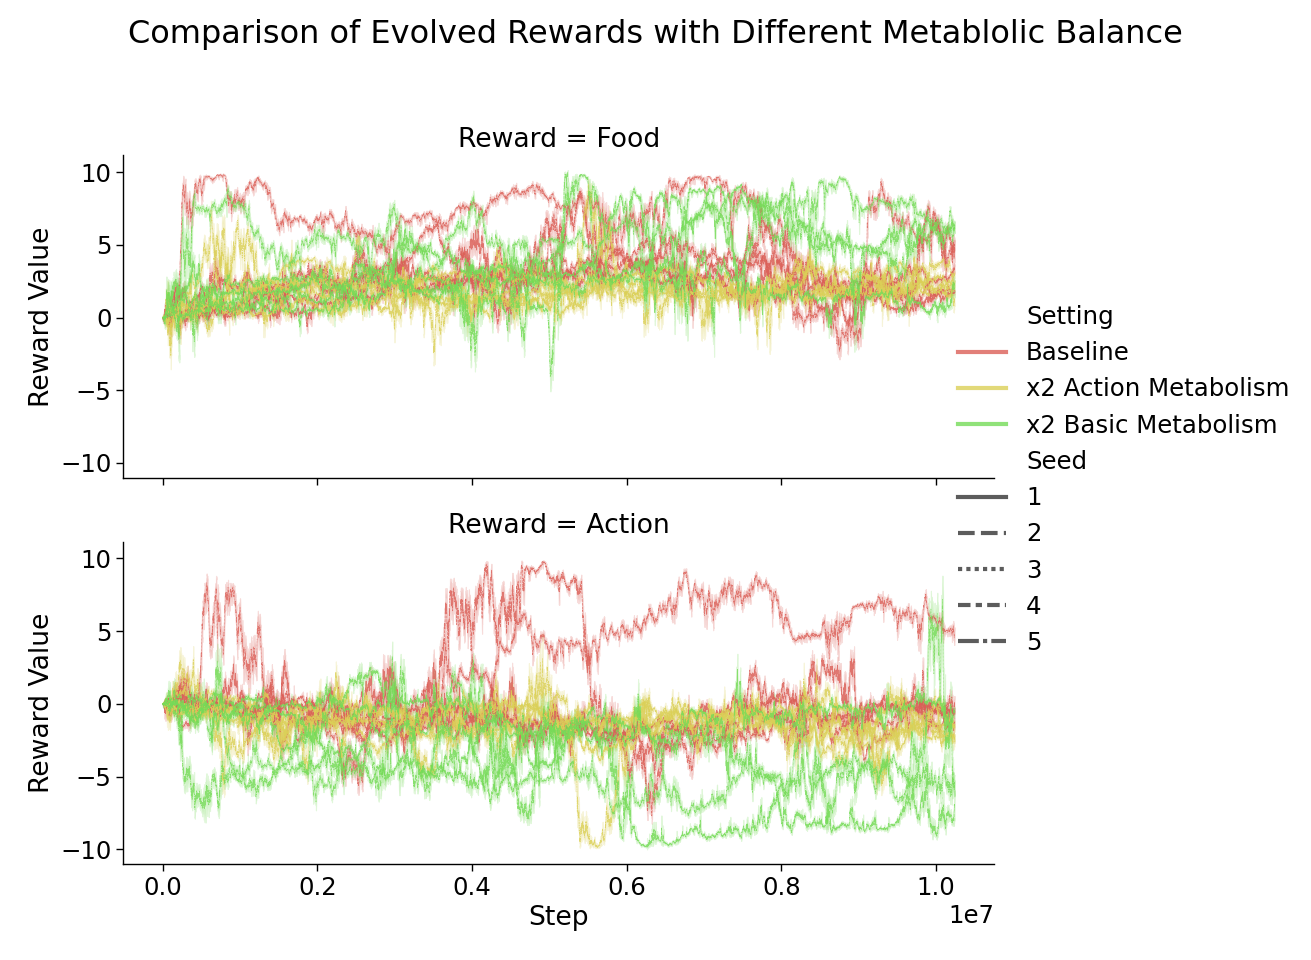
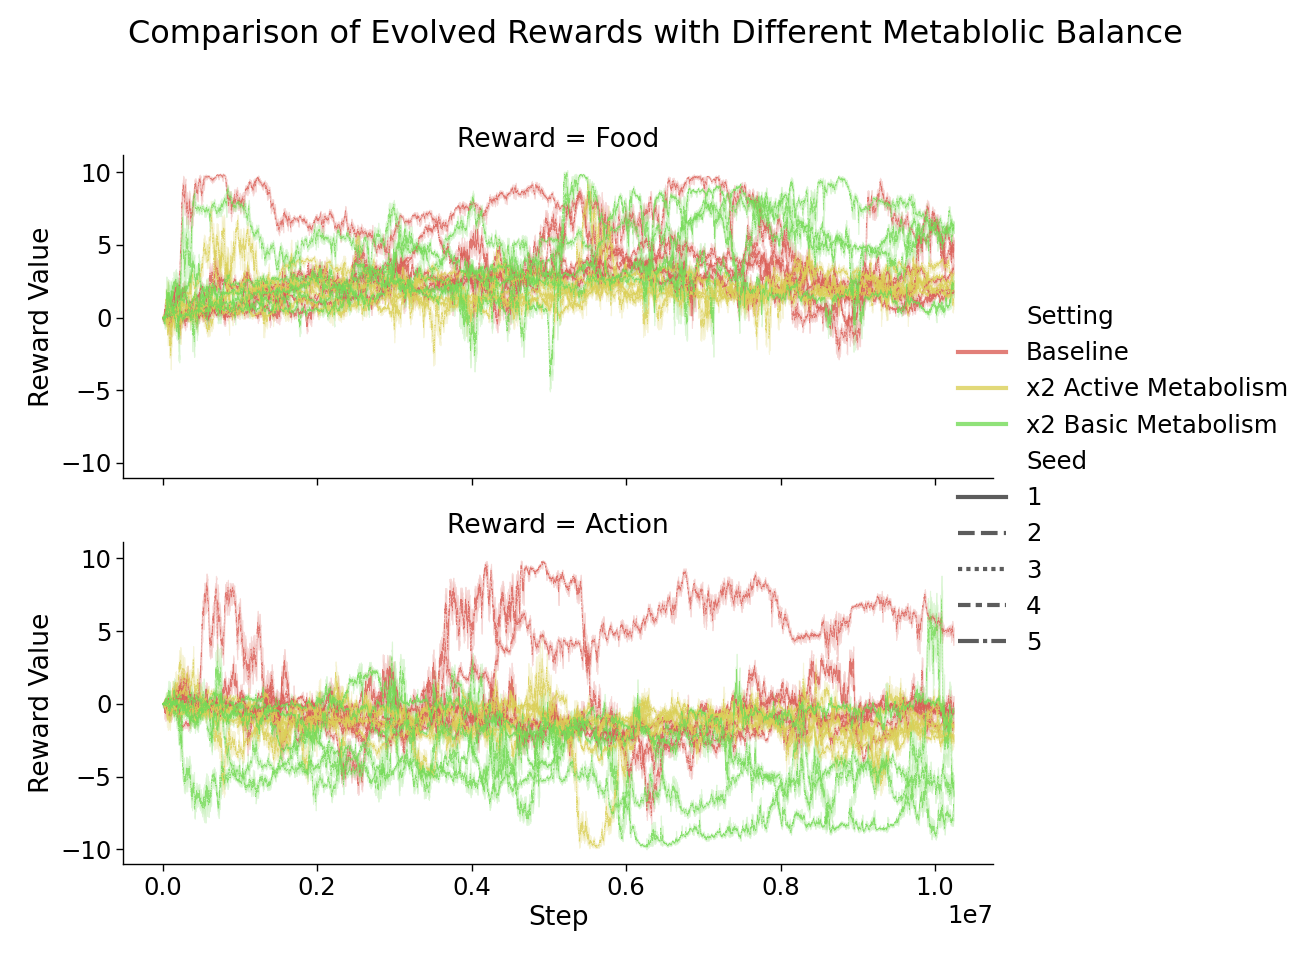
replace metabo

diff --git a/src/body.tex b/src/body.tex
@@ -198,7 +198,7 @@ We use Proximal Policy Optimization \citep{schulmanProximalPolicyOptimization201
 We show the pseudocode of our entire simulation procedure in \cref{alg:reward-evo}. Each agent has its innate, immutable reward function and learnable neural network policy. At each step, it observes sensory inputs from the environment and takes action. Once in $N$ steps, the agent updates its policy via RL using the past $N$ step experiences. After environmental interaction, all agents can make a child and die based on the birth function $b$ and hazard function $h$. The new agent inherits a fraction of the parent's energy and mutated reward function.
 
 \section{Results}
-As a baseline environment, we use the setting where food is always regenerated in the upper right of the room, as the left figure in \cref{figure:env} shows. All experiments start with $50$ agents that have energy level $40.0$. Initial reward weights are sampled from a zero-mean Gaussian distribution with standard deviation $0.1$, so that they should take values close to $0$. We conducted \num{1e7} step of the simulation, resulting in from $300$ to $400$ generations, which takes $14\sim16$ hours on NVIDIA P100 GPU.
+As a baseline environment, we use the setting where food is always regenerated in the upper right of the room, as the left figure in \cref{figure:env} shows. All experiments start with $50$ agents that have energy level $40.0$. Birth and hazard parameters in \cref{table:hb} are tuned so that population is size around $130\sim 150$ through the course of evolution. Initial reward weights are sampled from a zero-mean Gaussian distribution with standard deviation $0.1$, so that they should take values close to $0$. We conducted about one hundread thousound steps ($\num{1024e4}$) of the simulation, resulting in from $300$ to $400$ generations, which takes $14\sim16$ hours on NVIDIA P100 GPU.
 
 \begin{figure}[t]
   \centering
@@ -210,7 +210,7 @@ As a baseline environment, we use the setting where food is always regenerated i
   }\label{figure:result-baseline}
 \end{figure}
 
-\Cref{figure:result-baseline} shows the evolved reward weights with 5 random seeds in the baseline environment. We can observe that food reward is positive in all 5 runs, while action reward tends to be negative in the most of runs. Thus, we can say that agents have acquired rewards contributing to increase their energy level through evolution. The only exception is that action reward is largely positive in one random seed.
+\Cref{figure:result-baseline} shows the evolved reward weights with 5 random seeds in the baseline environment. We can observe that food reward is positive in all 5 runs, while action reward tends to be negative in the most of runs. Thus, we can say that agents have acquired rewards contributing to increase their energy level through evolution. The only exception is that action reward is largely positive in one random seed, which has negative impact on the population size. This run has the least average population size $120.6$ in the last $\num{3e6}$, while it is from $136$ to $149$ in other runs with negative action rewards. This result suggests that such unfavorable reward for population growth can be chosen when there is no competition with other species and there are sufficient energy resources.
 
 \begin{figure}[t]
   \centering
@@ -218,15 +218,15 @@ As a baseline environment, we use the setting where food is always regenerated i
   \caption{Comparison of evolved rewards between different metabolic balance.}\label{figure:result-metabolism}
 \end{figure}
 
+\paragraph{Effect of metabolic balance}
+To investigate the effect of metabolic balance to rewards, we run simulations with two different metabolic balance. One setting has double active metabolism ($e_{\mathrm{act}} = \num{4e-5}$), and the other has double the basic metabolism ($e_{\mathrm{basic}} = 0.002$). \Cref{figure:result-metabolism} compares the results between the baseline, double active metabolism (\texttt{x2 Active Metabolism}), and double basic metabolism (\texttt{x2 Basic Metabolism}). Each line shows the reward weight averaged over all agents alive at that time with one random seed, resulting in five lines per each setting.
+
+
 \begin{figure}[t]
   \centering
   \includegraphics[width=8cm]{comp_foodloc.png}
   \caption{Comparison of evolved rewards between different metabolic balance.}\label{figure:result-foodloc}
 \end{figure}
-
-\paragraph{Effect of metabolic balance}
-To investigate the effect of metabolic balance to rewards, we run simulations with two different metabolic balance. One setting has double active metabolism ($e_{\mathrm{act}} = \num{4e-5}$), and the other has double the basic metabolism ($e_{\mathrm{basic}} = 0.002$). \Cref{figures:result-metabolism} compares the results between the baseline, double active metabolism (\texttt{x2 Active Metabolism}), and double basic metabolism (\texttt{x2 Basic Metabolism}).
-
 
 \begin{figure*}[t]
   \centering
